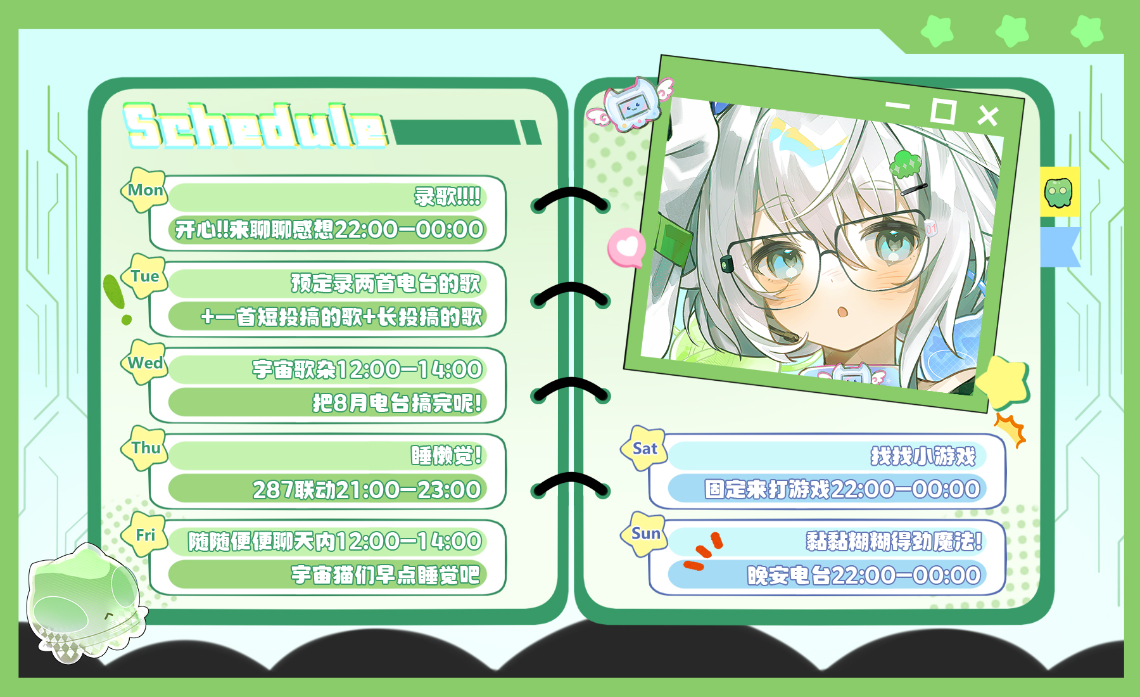
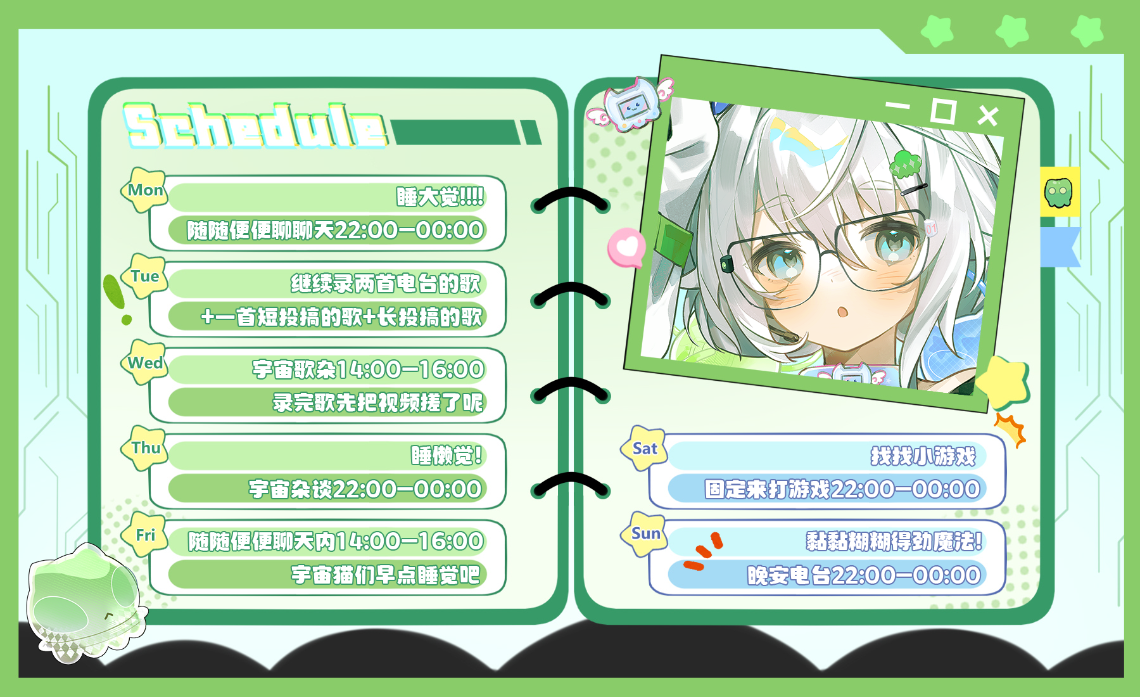
自动更新 2026-09-21 20:30

diff --git a/index.html b/index.html
@@ -293,7 +293,7 @@
     <h2><span class="no">QUEST</span>每周计划</h2>
   </div>
   <div class="wk-head reveal">
-    <span class="wk-status"><span class="dot" aria-hidden="true"></span><span id="planWhen">更新于 <span class="wk-date">2026年9月16日</span></span></span>
+    <span class="wk-status"><span class="dot" aria-hidden="true"></span><span id="planWhen">更新于 <span class="wk-date">2026年9月21日</span></span></span>
     <h2 class="wk-title">本周计划</h2>
     <p class="wk-sub">周表内容来自主页置顶动态的第一张图，每周自动检查一次，置顶动态更新后自动抓取替换。</p>
     <ul class="wk-list">
@@ -310,7 +310,7 @@
              自动生成两份：schedule-week.png（静止显示 1140px 无损，页面按 570px 显示=2 倍素材高分屏不糊）、
              schedule-week-full.png（无损原图，悬停与单击大图共用）；
              同时把上方「更新于 X年X月X日」改成抓取/上传那天的日期 -->
-        <img id="weekImg" src="images/schedule-week.png?v=20260916b" alt="本周周表照片" referrerpolicy="no-referrer">
+        <img id="weekImg" src="images/schedule-week.png?v=202609212029" alt="本周周表照片" referrerpolicy="no-referrer">
         <div class="wk-q" id="weekFail" hidden>？</div>
       </div>
     </div>
@@ -1030,8 +1030,8 @@
     var KEY  = "chu2u-week-v2";          /* 远程抓取缓存 {id, img, ts, week} */
     var DKEY = "chu2u-week-drop";        /* 拖入图片缓存 {img, ts} */
     var UID = "2138961136";
-    var LOCAL = "images/schedule-week.png?v=20260916b";      /* 静止显示版（1140px 素材按 570px 显示）；?v= 由维护脚本换图时自动改日期，绕过浏览器缓存 */
-    var FULL  = "images/schedule-week-full.png?v=20260916b"; /* 无损原图（悬停与单击大图共用） */
+    var LOCAL = "images/schedule-week.png?v=202609212029";      /* 静止显示版（1140px 素材按 570px 显示）；?v= 由维护脚本换图时自动改日期，绕过浏览器缓存 */
+    var FULL  = "images/schedule-week-full.png?v=202609212029"; /* 无损原图（悬停与单击大图共用） */
     var when    = document.getElementById("planWhen");
     var img     = document.getElementById("weekImg");
     var fail    = document.getElementById("weekFail");
